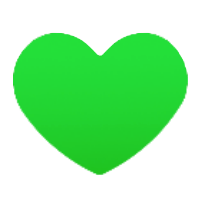
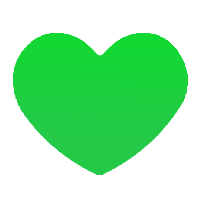
feat: nicer supporter leaderboard design

diff --git a/src/routes/(game)/(menu)/leaderboard/+page.svelte b/src/routes/(game)/(menu)/leaderboard/+page.svelte
@@ -6,6 +6,7 @@
 	import { fade } from "svelte/transition";
 	import Tabs from "$lib/components/ui/Tabs.svelte";
 	import { accountUrl } from "$lib/stores/context-specific/apiConfigStore";
+	import SupporterTag from "$lib/components/SupporterTag.svelte";
 
 	let loadingText = $state("Loading...");
 
@@ -253,13 +254,7 @@
 	{#if mainSectionEntries}
 		<div class="item-container" transition:fade={{ duration: 150 }}>
 			{#each mainSectionEntries.slice(3) as entry, i}
-				<div
-					class="rankedItem"
-					role="button"
-					tabindex="0"
-					class:yourItem={entry.id == userId && $isAuthenticated}
-					class:rankedItemSupporter={entry.supporter_level >= 1}
-				>
+				<div class="rankedItem" role="button" tabindex="0" class:yourItem={entry.id == userId && $isAuthenticated}>
 					<p class="maxlength rankedItemLeft">#{entry.position}</p>
 					<!-- svelte-ignore a11y_no_noninteractive_element_interactions -->
 					<p
@@ -269,6 +264,9 @@
 						}}
 					>
 						{entry.user_name}
+						{#if entry.supporter_level >= 1}
+							<SupporterTag />
+						{/if}
 					</p>
 					<p class="maxlength rankedItemRight">{entry?.[valueKey]?.toLocaleString() + unitName}</p>
 				</div>
@@ -285,18 +283,20 @@
 		</div>
 		<div id="yourLeagueContainer" class="item-container">
 			{#each userSectionEntries as entry, i}
-				<div
-					class="rankedItem"
-					role="button"
-					tabindex="0"
-					class:yourItem={entry.id == userId && $isAuthenticated}
-					class:rankedItemSupporter={entry.supporter_level >= 1}
-					onclick={() => {
-						loadProfileFromId(entry.id, true);
-					}}
-				>
+				<div class="rankedItem" role="button" tabindex="0" class:yourItem={entry.id == userId && $isAuthenticated}>
 					<p class="maxlength rankedItemLeft">#{entry.position}</p>
-					<p class="middle maxlength">{entry.user_name}</p>
+					<!-- svelte-ignore a11y_no_noninteractive_element_interactions -->
+					<p
+						class="middle maxlength"
+						onclick={() => {
+							loadProfileFromId(entry.id, true);
+						}}
+					>
+						{entry.user_name}
+						{#if entry.supporter_level >= 1}
+							<SupporterTag />
+						{/if}
+					</p>
 					<p class="maxlength rankedItemRight">{entry?.[valueKey]?.toLocaleString() + unitName}</p>
 				</div>
 			{/each}
@@ -349,72 +349,12 @@
 		font-size: 25px;
 	}
 
-	.rankedItemSupporter {
-		box-sizing: border-box;
-		border: 3px solid var(--supporter-green);
-		border-bottom: 3px solid var(--supporter-green-soft);
-		box-shadow: none;
-		position: relative;
-	}
-
-	.rankedItemSupporter::before {
-		animation: supporterGlint 5s 2s infinite;
-		background: linear-gradient(90deg, #00ff1c00 1%, rgb(196, 255, 206) 50%, #00ff3400);
-		border-radius: inherit;
-		content: "";
-		height: 3px;
-		inset: -3px;
-		opacity: 0;
-		position: absolute;
-		transform: translate(0);
-		width: 50%;
-		z-index: 1;
-	}
-
-	@keyframes supporterGlint {
-		10% {
-			opacity: 1;
-		}
-
-		20% {
-			opacity: 0;
-			transform: translate(100%);
-		}
-
-		21% {
-			opacity: 0;
-			transform: translate(100%, 42px);
-		}
-
-		30% {
-			opacity: 1;
-		}
-
-		40% {
-			opacity: 0;
-			transform: translateY(42px);
-		}
-
-		41% {
-			opacity: 0;
-			transform: translate(0);
-		}
-
-		50% {
-			opacity: 1;
-		}
-
-		60% {
-			opacity: 0;
-			transform: translate(100%);
-		}
-	}
-
 	.middle {
 		transition: opacity 250ms ease;
 		cursor: pointer;
 		user-select: none;
 		text-align: center;
+		mask-image: linear-gradient(to right, transparent, black 0%, black 90%, transparent);
 	}
 
 	.middle:hover {

diff --git a/src/routes/(game)/(menu)/competitions/+page.svelte b/src/routes/(game)/(menu)/competitions/+page.svelte
@@ -14,6 +14,7 @@
 	import { accountUrl } from "$lib/stores/context-specific/apiConfigStore";
 	import Tabs from "$lib/components/ui/Tabs.svelte";
 	import { blur } from "svelte/transition";
+	import SupporterTag from "$lib/components/SupporterTag.svelte";
 
 	const competitionsEndpoint = $accountUrl + "/competitions";
 
@@ -458,7 +459,7 @@
 				{#if yourEntry}
 					<div class="youBar">
 						<p class="youLabel">You:</p>
-						<div class="rankItem yourItem" class:leaderboardSupporterEntry={yourEntry.supporter_level > 0}>
+						<div class="rankItem yourItem">
 							<p class="leaderboardTextEntry">#{yourEntry.position}</p>
 							<p
 								id="yourUsername"
@@ -468,6 +469,9 @@
 								}}
 							>
 								{yourEntry.userName}
+								{#if entry.supporter_level > 0}
+									<SupporterTag />
+								{/if}
 							</p>
 							<p class="leaderboardTextEntry">{yourEntry.score.toLocaleString()} Pts.</p>
 						</div>
@@ -475,12 +479,7 @@
 				{/if}
 				{#if leaderboardEntries?.length > 0}
 					{#each leaderboardEntries as entry}
-						<div
-							class="rankItem"
-							transition:blur
-							class:leaderboardSupporterEntry={entry.supporter_level > 0}
-							class:rankYou={entry.id == localStorage.getItem("id")}
-						>
+						<div class="rankItem" transition:blur class:rankYou={entry.id == localStorage.getItem("id")}>
 							<p class="leaderboardTextEntry">#{entry.position}</p>
 							<p
 								class="leaderboardTextEntry centerEntry"
@@ -489,6 +488,9 @@
 								}}
 							>
 								{entry.userName}
+								{#if entry.supporter_level > 0}
+									<SupporterTag />
+								{/if}
 							</p>
 							<p class="leaderboardTextEntry">{entry.score.toLocaleString()} Pts.</p>
 						</div>
@@ -1212,18 +1214,13 @@
 		text-overflow: ellipsis;
 	}
 
-	.leaderboardSupporterEntry {
-		width: 100%;
-		box-sizing: border-box;
-		box-shadow: var(--box-shadow-supporter);
-		background-color: var(--supporter-green-tint);
-	}
-
 	.centerEntry {
-		max-width: 50%;
+		width: 50%;
+		text-align: center;
 		transition: opacity 250ms ease;
 		cursor: pointer;
 		user-select: none;
+		mask-image: linear-gradient(to right, transparent, black 0%, black 90%, transparent);
 	}
 
 	.centerEntry:hover {

diff --git a/src/lib/components/SupporterTag.svelte b/src/lib/components/SupporterTag.svelte
@@ -1,0 +1,46 @@
+<div class="supporterSpan">Supporter</div>
+
+<style>
+	.supporterSpan {
+		border-radius: 5px;
+		background: var(--supporter-gradient);
+		padding-inline: 5px;
+		font-size: 18px;
+		margin-left: 3px;
+		box-shadow: var(--bulb-shadow);
+		position: relative;
+		overflow: hidden;
+		display: inline-flex;
+	}
+
+	.supporterSpan::before {
+		animation: 4s supporterGlint 2s infinite;
+		background: white;
+		filter: blur(8px);
+		content: "";
+		position: absolute;
+		width: 10px;
+		z-index: 1;
+		height: 200%;
+		top: -10px;
+		left: 0;
+		transform: rotate(30deg);
+		pointer-events: none;
+		margin-left: -25px;
+	}
+
+	@keyframes supporterGlint {
+		0% {
+			margin-left: -25px;
+			visibility: visible;
+		}
+
+		40% {
+			margin-left: calc(100% + 25px);
+		}
+
+		100% {
+			margin-left: calc(100% + 25px);
+		}
+	}
+</style>
